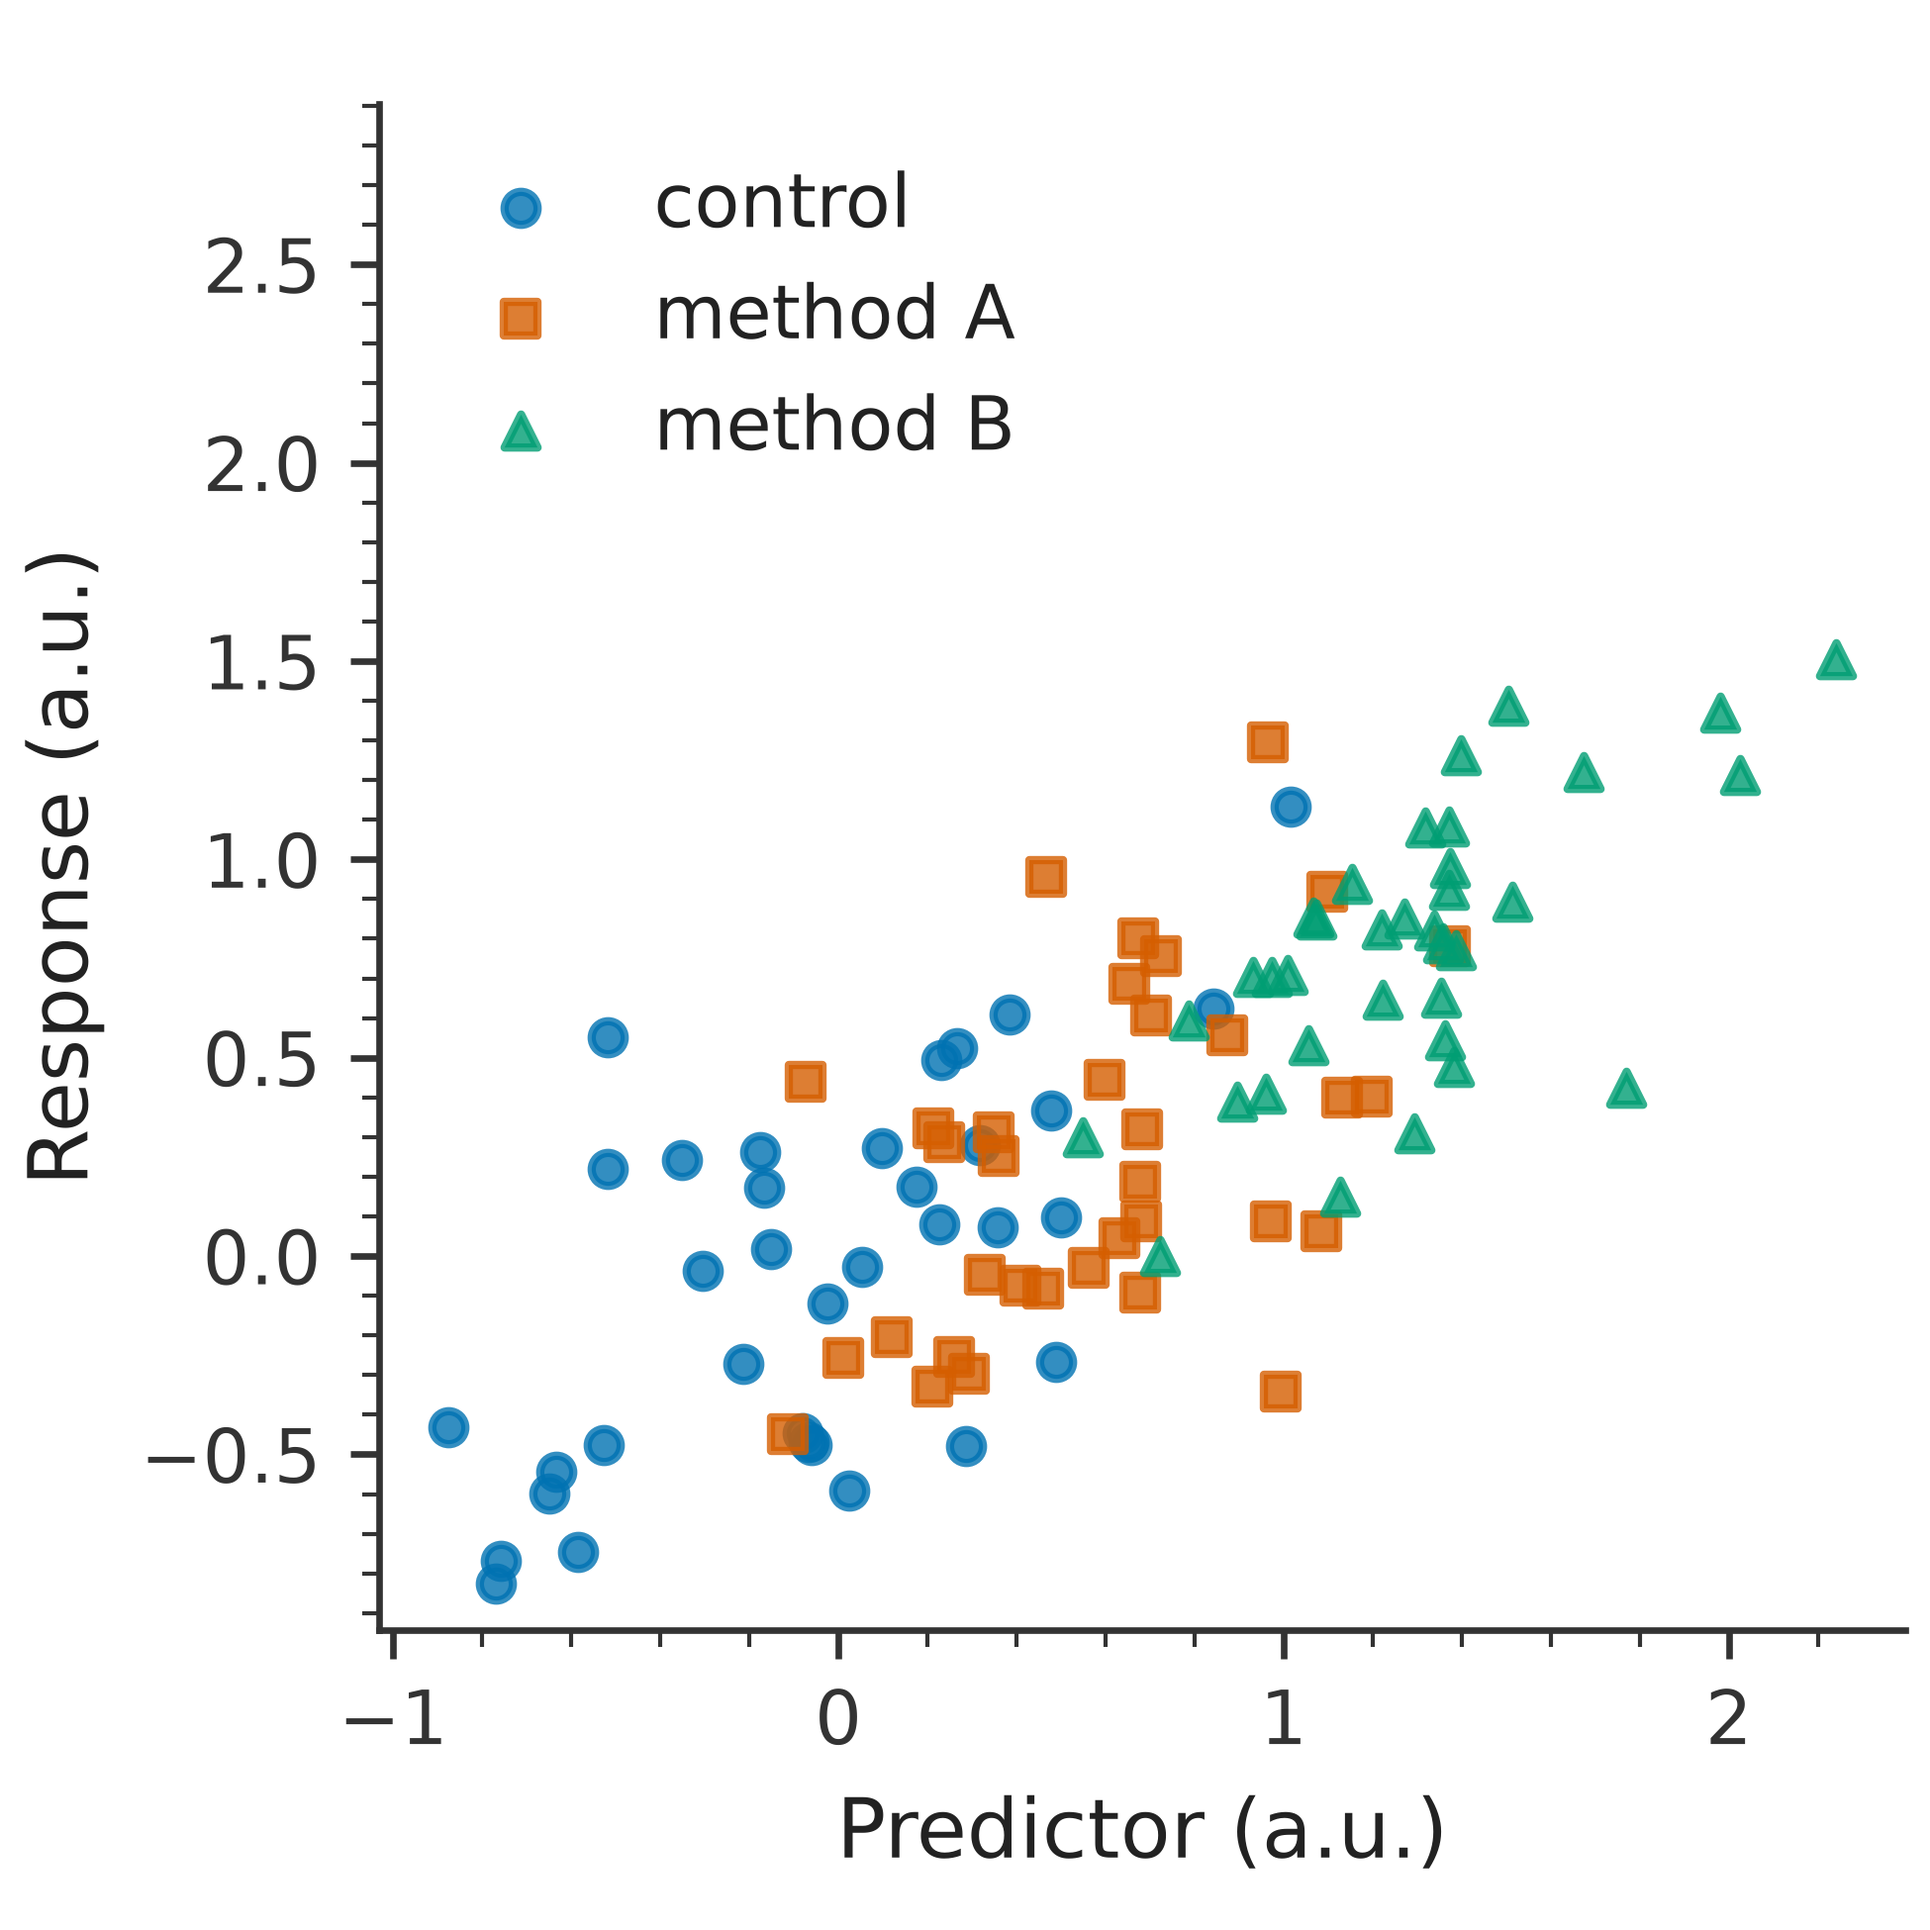
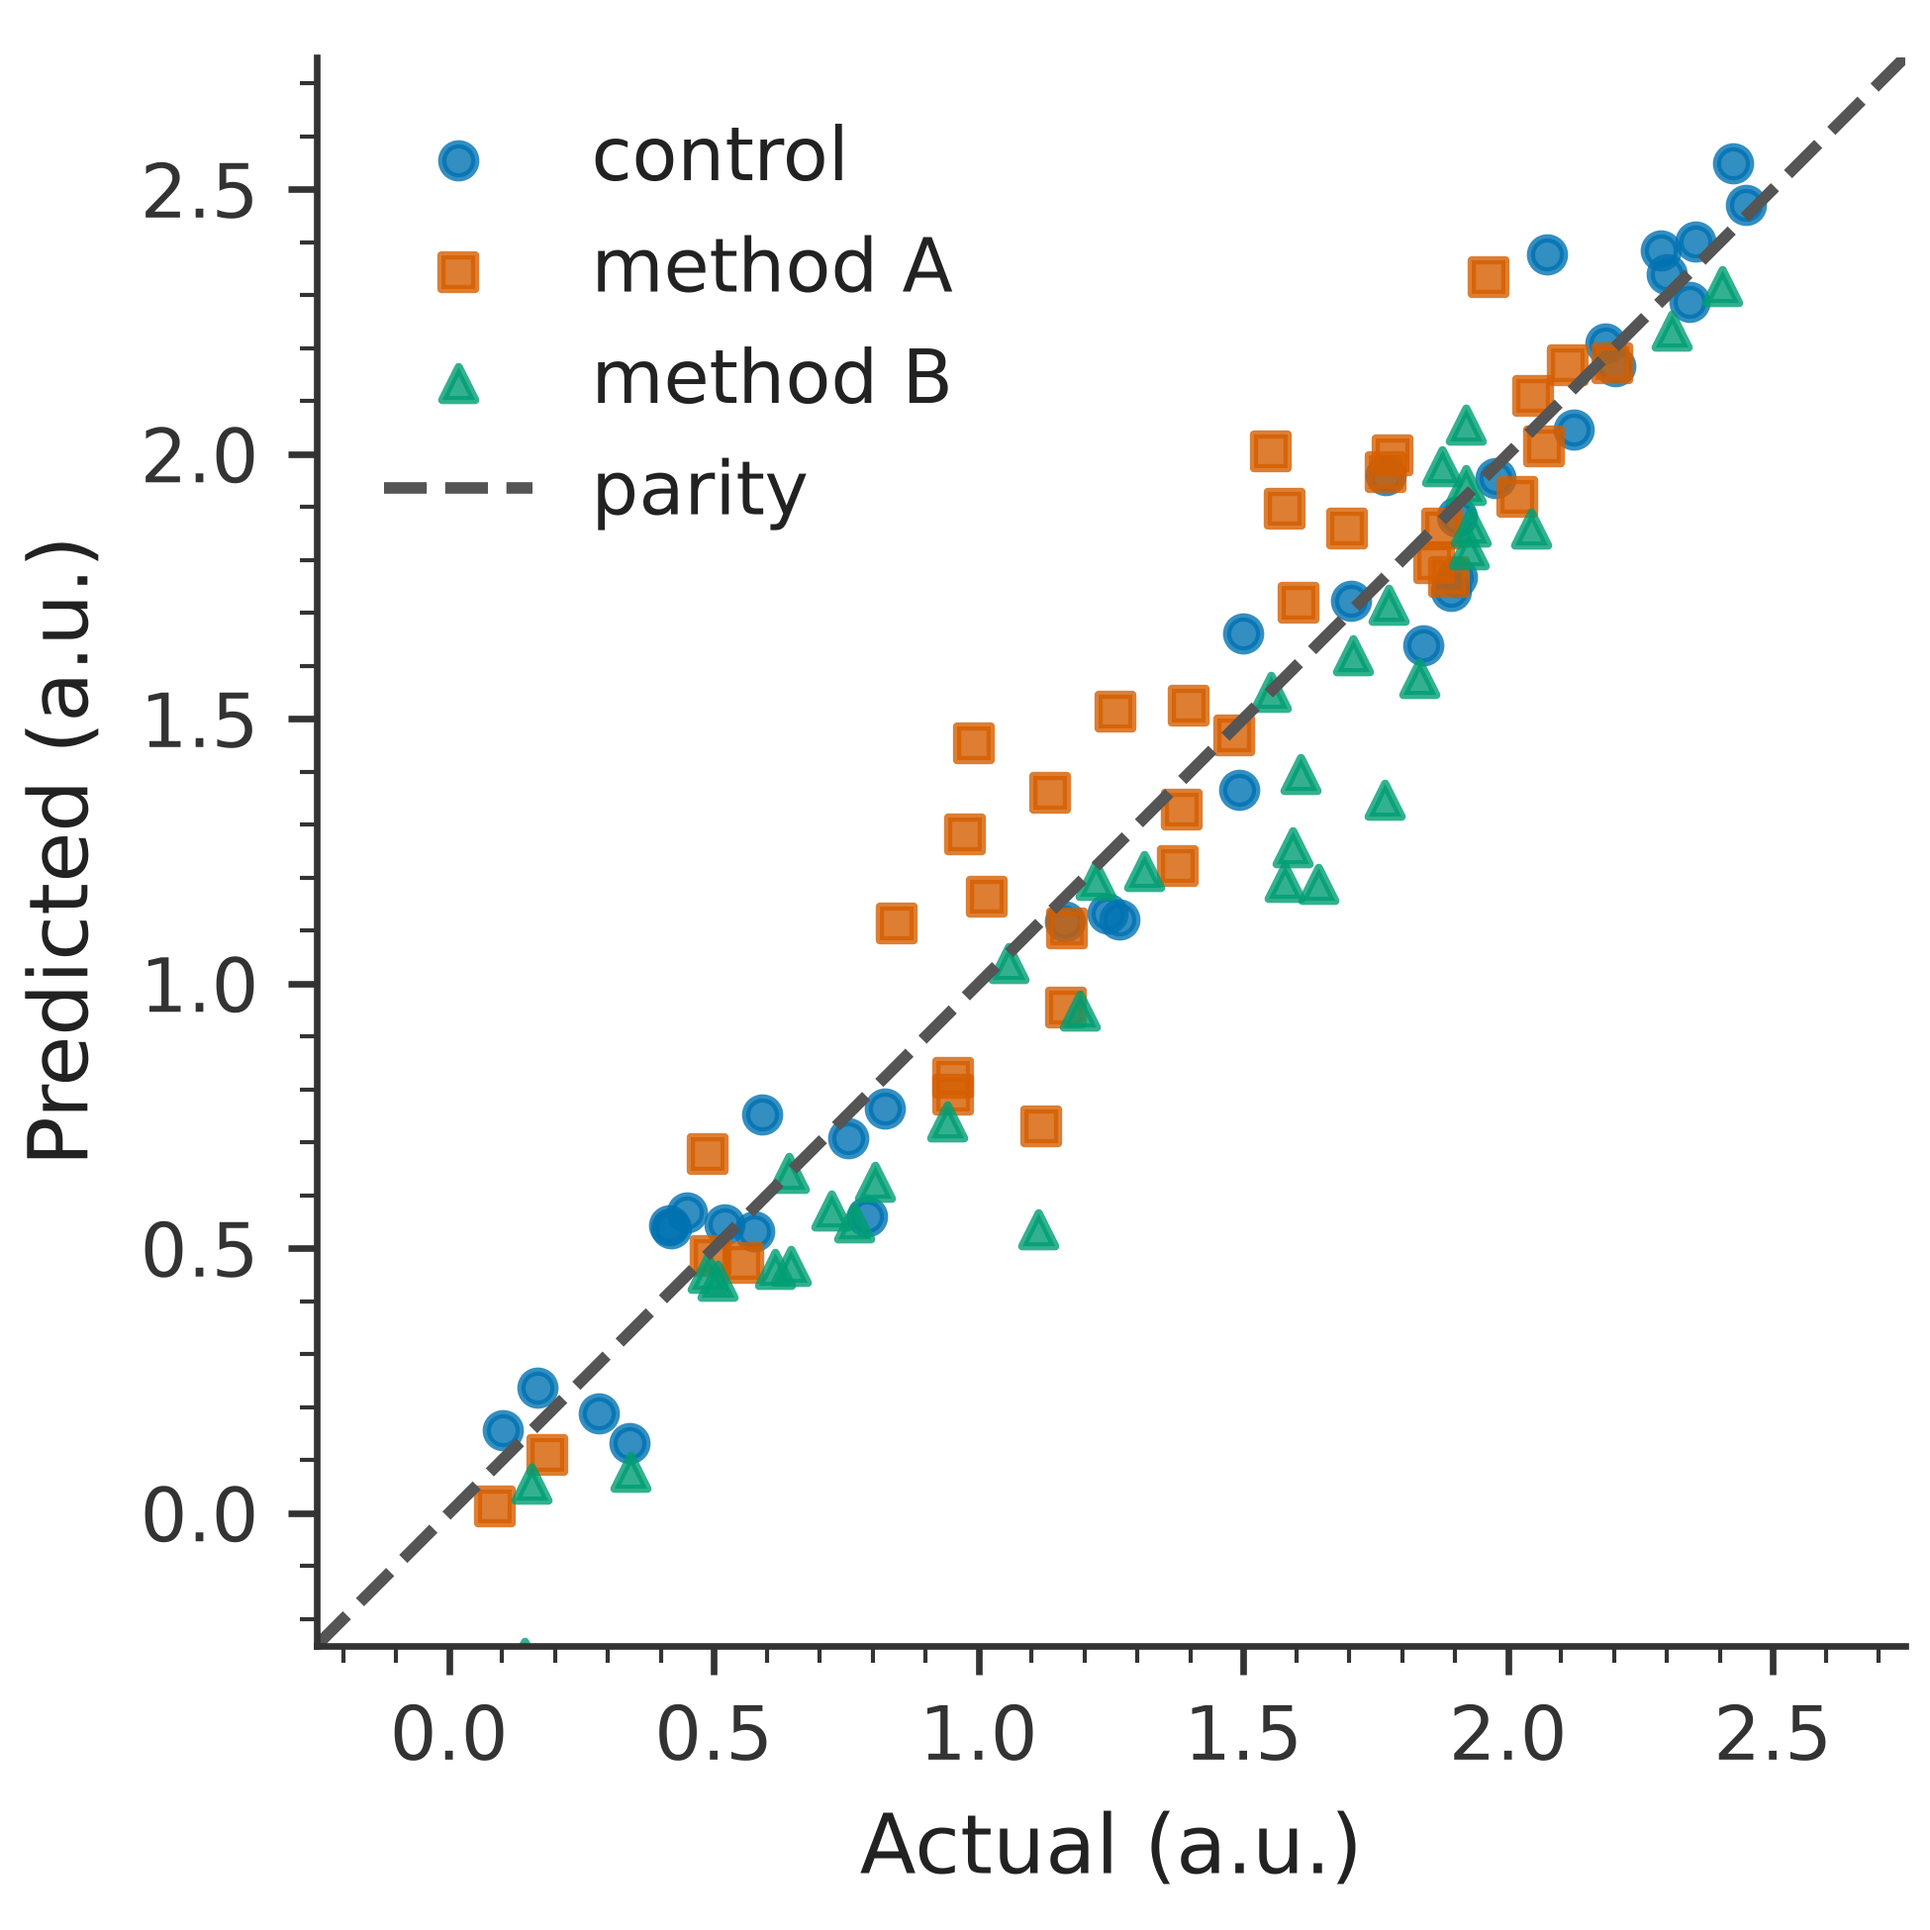
Make scatter example a true parity plot

diff --git a/examples/build_readme_figures.py b/examples/build_readme_figures.py
@@ -37,22 +37,28 @@ def build(name: str) -> None:
         figure.savefig(OUTPUT / f"{name}.png")
         plt.close(figure)
 
-        # Square scatter plot with redundant color and shape encodings.
+        # Parity plot with identical limits and scale on both axes.
         with rosen_style.context(name, square=True):
             figure, axes = plt.subplots()
-            for offset, label, marker in zip(
-                (0.0, 0.7, 1.4),
+            for bias, noise, label, marker in zip(
+                (0.0, 0.12, -0.12),
+                (0.12, 0.18, 0.22),
                 ("control", "method A", "method B"),
                 ("o", "s", "^"),
                 strict=True,
             ):
-                values = rng.normal(offset, 0.45, 35)
-                response = 0.65 * values + rng.normal(0, 0.35, values.size)
-                axes.scatter(values, response, label=label, marker=marker, alpha=0.8)
-            axes.set(xlabel="Predictor (a.u.)", ylabel="Response (a.u.)")
-            axes.set_box_aspect(1)
-            lower, upper = axes.get_ylim()
-            axes.set_ylim(lower, upper + 0.5 * (upper - lower))
+                actual = rng.uniform(0, 2.5, 35)
+                predicted = actual + bias + rng.normal(0, noise, actual.size)
+                axes.scatter(actual, predicted, label=label, marker=marker, alpha=0.8)
+            limits = (-0.25, 2.75)
+            axes.plot(limits, limits, color="#555555", linestyle="--", label="parity")
+            axes.set(
+                xlabel="Actual (a.u.)",
+                ylabel="Predicted (a.u.)",
+                xlim=limits,
+                ylim=limits,
+                aspect="equal",
+            )
             axes.legend(loc="upper left")
             figure.savefig(OUTPUT / f"{name}_scatter.png")
             plt.close(figure)
